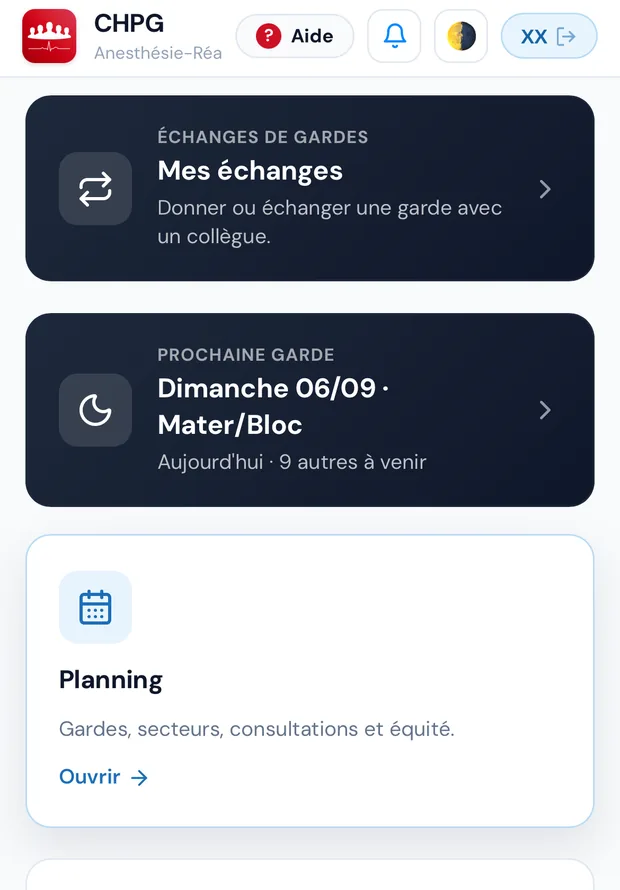
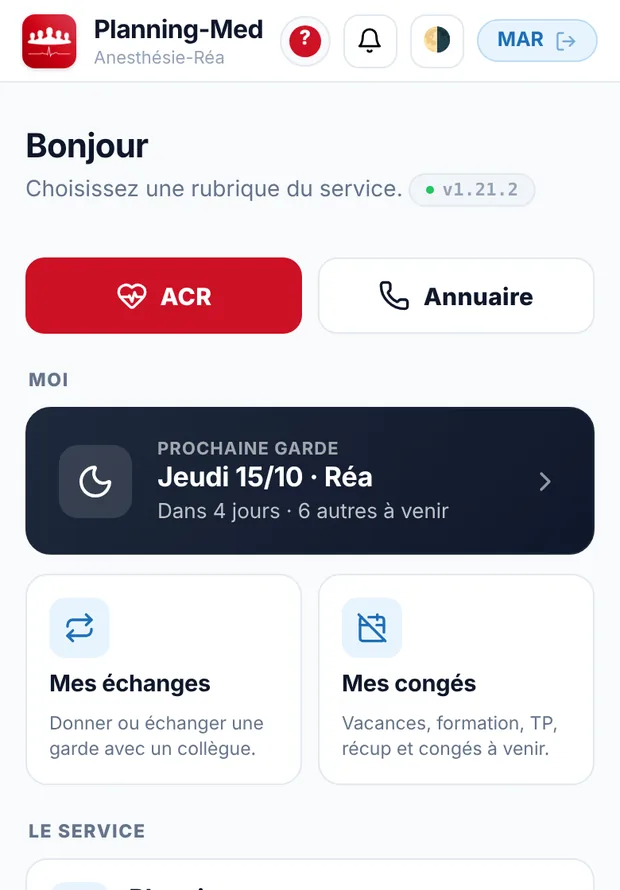
Bandeau sur téléphone : Aide réduit à « ? », nom du portail lisible ; capture de l'accueil du guide (v1.21.2)
Le nom « Planning-Med » était coupé par les boutons du bandeau. Sur
téléphone, Aide ne garde que son « ? » (mot conservé pour la lecture
vocale) ; dans le planning, la silhouette de la pastille est masquée.
Guide MAR : capture de l'accueil en blocs, données fictives.
v1.21.1 sautée : collision avec l'ancienne page de référence du banc iOS.

Claude-Session: https://claude.ai/code/session_01FrRJkqPeMho61tY3U6Ukyq

diff --git a/planning.html b/planning.html
@@ -553,6 +553,13 @@ body{font-variant-numeric:tabular-nums}
   .me-pill { padding: 4px 9px; font-size: 11.5px; flex-shrink: 0; white-space: nowrap; }
   .theme-btn { width: 30px; height: 30px; font-size: 13px; flex-shrink: 0; }
   .header-back { width: 30px; height: 30px; font-size: 18px; }
+  /* (11/10/2026) Bandeau trop serré sur téléphone : le nom du portail était coupé
+     (« Planning… »). Le bouton Aide n'y garde que son « ? », en rond. */
+  .header-btn { width:32px; height:32px; padding:0; justify-content:center; flex-shrink:0; }
+  .header-btn .hb-txt { display:none; }
+  .header-btn .hb-ico { width:20px; height:20px; font-size:12.5px; }
+  .me-pill-ico { display:none; }               /* la silhouette 👤 : place rendue au nom du portail */
+  .header-right { margin-left: 8px; }
   body { overflow-x: hidden; } /* garde-fou : plus jamais de dérive horizontale */
   .header-flag { width: 34px; height: 34px; border-radius: 8px; }
   .year-select { font-size: 12px; padding: 5px 8px; min-width: 68px; }
@@ -770,7 +777,7 @@ body{font-variant-numeric:tabular-nums}
     </div>
   </div>
   <div class="header-right" id="headerRight">
-    <a href="./docs/guide-mar.html" class="header-btn" title="Guide du MAR — mode d'emploi du portail et du planning"><span class="hb-ico">?</span> Aide</a>
+    <a href="./docs/guide-mar.html" class="header-btn" title="Guide du MAR — mode d'emploi du portail et du planning" aria-label="Aide"><span class="hb-ico">?</span><span class="hb-txt">Aide</span></a>
     <button id="themeBtn" class="theme-btn" onclick="cycleTheme()" title="Thème">🌗</button>
     <span id="mePill" class="me-pill" style="display:none"></span>
     <div class="hdr-stepper" id="monthStepper" style="display:none">
@@ -966,7 +973,7 @@ function applyUserBadge(r){
     // MAR : nom (ou initiales sur mobile) · Admin : "Admin". Toujours affiché,
     // cliquable → déconnexion (permet de changer d'utilisateur).
     const label = MY_ID ? (isMobile && r.initials ? r.initials : _meName(MY_ID)) : 'Admin';
-    pill.innerHTML = '👤 ' + esc(label) + ' <span class="me-pill-logout" aria-label="Déconnexion" style="display:inline-flex;align-items:center"><svg width="14" height="14" viewBox="0 0 24 24" fill="none" stroke="currentColor" stroke-width="2.2" stroke-linecap="round" stroke-linejoin="round"><path d="M9 21H5a2 2 0 0 1-2-2V5a2 2 0 0 1 2-2h4"/><polyline points="16 17 21 12 16 7"/><line x1="21" y1="12" x2="9" y2="12"/></svg></span>';
+    pill.innerHTML = '<span class="me-pill-ico">👤 </span>' + esc(label) + ' <span class="me-pill-logout" aria-label="Déconnexion" style="display:inline-flex;align-items:center"><svg width="14" height="14" viewBox="0 0 24 24" fill="none" stroke="currentColor" stroke-width="2.2" stroke-linecap="round" stroke-linejoin="round"><path d="M9 21H5a2 2 0 0 1-2-2V5a2 2 0 0 1 2-2h4"/><polyline points="16 17 21 12 16 7"/><line x1="21" y1="12" x2="9" y2="12"/></svg></span>';
     pill.style.display = 'inline-flex';
     pill.style.cursor = 'pointer';
     pill.title = 'Changer d\'utilisateur / déconnexion';

diff --git a/banc/banc_pages_mar.js b/banc/banc_pages_mar.js
@@ -940,6 +940,28 @@ const dodo = ms => new Promise(r => setTimeout(r, ms));
     }
   }
 
+  /* (11/10/2026) Sur téléphone, le bouton Aide repoussait le nom du portail
+     (« Planning… », coupé). Il n'y garde que son « ? » ; le mot reste sur ordinateur. */
+  console.log('\n═══ 28s. Le bouton Aide se réduit à « ? » sur téléphone ═══');
+  for (const [p, seuil] of [['index.html', 640], ['planning.html', 768]]) {
+    const src = fs.readFileSync('../' + p, 'utf8');
+    const D = new JSDOM(src).window.document;
+    const aide = [...D.querySelectorAll('a.header-btn')].find(a => /guide-mar/.test(a.getAttribute('href')));
+    V(`${p} : le mot « Aide » est isolé pour pouvoir le masquer`, !!aide && aide.querySelector('.hb-txt') && aide.querySelector('.hb-txt').textContent === 'Aide');
+    V(`${p} : le bouton garde un nom pour les lecteurs d'écran`, !!aide && aide.getAttribute('aria-label') === 'Aide');
+    /* Toutes les sections « téléphone » de la page (il peut y en avoir plusieurs). */
+    const mobile = (src.match(new RegExp('@media\\s*\\(max-width:\\s*' + seuil + 'px\\)\\s*\\{[\\s\\S]*?\\n\\}', 'g')) || []).join('\n');
+    V(`${p} : sous ${seuil} px, le mot est masqué`, /\.header-btn \.hb-txt \{ display:none; \}/.test(mobile));
+    V(`${p} : au-dessus, il reste affiché (règle limitée au téléphone)`, !/^\.header-btn \.hb-txt\s*\{\s*display:\s*none/m.test(src));
+  }
+  {
+    /* Planning : la silhouette 👤 de la pastille du MAR mangeait aussi la place. */
+    const src = fs.readFileSync('../planning.html', 'utf8');
+    V('planning.html : la silhouette de la pastille est isolée', /pill\.innerHTML = '<span class="me-pill-ico">👤 <\/span>'/.test(src));
+    const mobile = (src.match(/@media\s*\(max-width:\s*768px\)\s*\{[\s\S]*?\n\}/g) || []).join('\n');
+    V('planning.html : et masquée sur téléphone seulement', /\.me-pill-ico \{ display:none; \}/.test(mobile) && !/^\.me-pill-ico\s*\{\s*display:\s*none/m.test(src));
+  }
+
   console.log(`\n${ok} OK · ${ko} en échec`);
   process.exit(ko ? 1 : 0);
 })();

diff --git a/index.html b/index.html
@@ -531,6 +531,11 @@ html[data-theme="dark"] .vs-pill{background:#251B3C;color:#B593F2}
   .header-right { flex-shrink: 0; }
   .wrap { padding: 28px 16px 48px; }
   .hello { font-size: 21px; }
+  /* (11/10/2026) Bandeau trop serré sur téléphone : le nom du portail était coupé
+     (« Planning… »). Le bouton Aide n'y garde que son « ? », en rond. */
+  .header-btn { width:32px; height:32px; padding:0; justify-content:center; flex-shrink:0; }
+  .header-btn .hb-txt { display:none; }
+  .header-btn .hb-ico { width:20px; height:20px; font-size:12.5px; }
   .raccourcis { max-width:none; }
   .bloc { margin-top:22px; }
   .tiles { grid-template-columns: repeat(2, minmax(0, 1fr)); gap:10px; }
@@ -594,7 +599,7 @@ html[data-theme="dark"] .vs-pill{background:#251B3C;color:#B593F2}
     </div>
   </div>
   <div class="header-right">
-    <a href="./docs/guide-mar.html" class="header-btn" title="Guide du MAR — mode d'emploi du portail et du planning"><span class="hb-ico">?</span> Aide</a>
+    <a href="./docs/guide-mar.html" class="header-btn" title="Guide du MAR — mode d'emploi du portail et du planning" aria-label="Aide"><span class="hb-ico">?</span><span class="hb-txt">Aide</span></a>
     <button id="notifBell" class="theme-btn bell-btn" onclick="notifsOuvrir()" title="Notifications" aria-label="Notifications" style="display:none"><i data-lucide="bell"></i></button>
     <button id="themeBtn" class="theme-btn" onclick="cycleTheme()" title="Thème">🌗</button>
     <span id="mePill" class="me-pill" style="display:none"></span>

diff --git a/docs/guide-mar.html b/docs/guide-mar.html
@@ -411,7 +411,7 @@
     <p>Tant que vous n'avez pas activé les notifications sur ce téléphone, une carte <b>Activer les notifications</b> vous le propose tout en haut.</p>
 
     <h3>Tout en haut de l'écran</h3>
-    <p>La <b>cloche</b> (section 11), le bouton de thème clair/sombre, et le bouton <b>?&nbsp;Aide</b> qui ouvre ce guide.</p>
+    <p>La <b>cloche</b> (section 11), le bouton de thème clair/sombre, et le bouton <b>?</b> qui ouvre ce guide (écrit <b>?&nbsp;Aide</b> sur ordinateur).</p>
 
     <p>La veille biblio a son propre chapitre : <a href="#s10">section 10</a>.</p>
   </div>

diff --git a/version.js b/version.js
@@ -26,7 +26,7 @@
 
    ⚠ Le numéro DESCEND (v10.8.3 → v1.0.4). C'est voulu, et c'est la seule fois.
    ───────────────────────────────────────────────────────────────────────── */
-window.SITE_VERSION = 'v1.21.0';
+window.SITE_VERSION = 'v1.21.2';
 
 (function () {
   function poser() {
